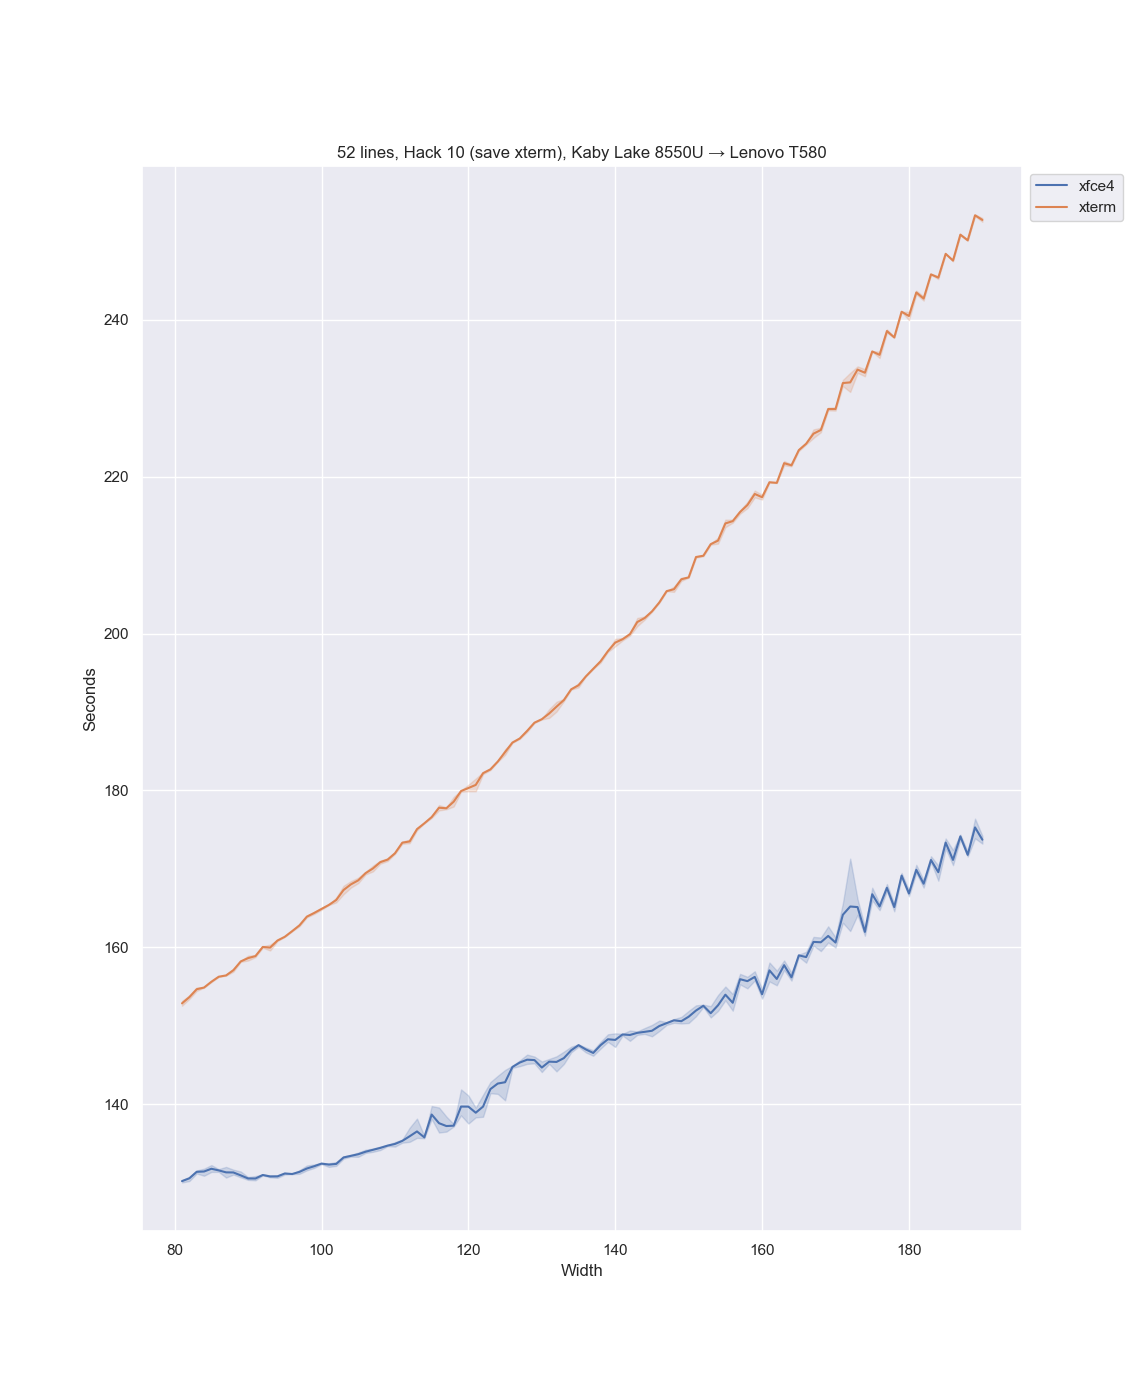
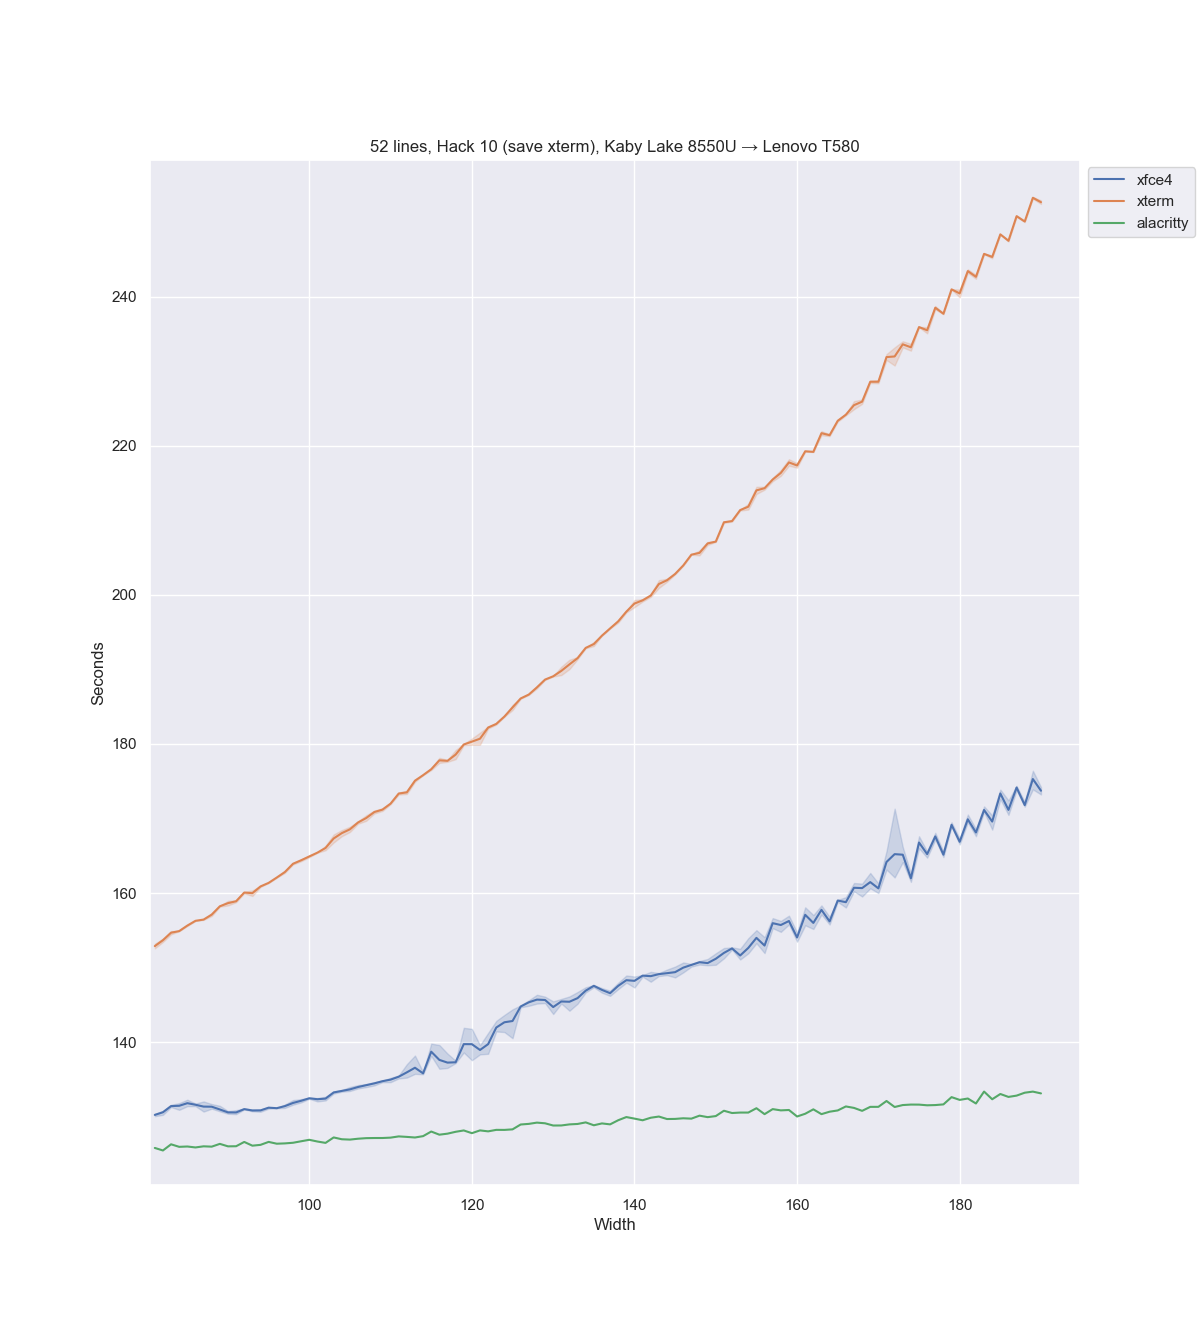
prior art

diff --git a/004-notcurses/plotrun.py b/004-notcurses/plotrun.py
@@ -16,12 +16,13 @@ plt.figure(figsize=(20,8))
 suffixes = ['ns']#, 'bytes']
 for suf in suffixes:
     ttl = pd.DataFrame()
-    bases = ['xfce4-vte-52-', 'xfce4-vte2-52-', 'xfce4-vte3-52-', 'xterm-bitmap-52-', 'xterm-bitmap2-52-']
+    bases = ['xfce4-vte-52-', 'xfce4-vte2-52-', 'xfce4-vte3-52-', 'xterm-bitmap-52-', 'xterm-bitmap2-52-', 'alacritty-52-', 'alacritty-2-52-',
+             'alacritty-3-52-']
     widths = [] # widths
     times = [] # nanosecond counts
     terms = [] # terminals
     for b in bases:
-        for i in range(81,191):
+        for i in range(81,156):
             print('data/' + b + str(i) + '.json')
             xterm=pd.read_json('data/' + b + str(i) + '.json')
             #print(xterm)

diff --git a/004-notcurses/plotdemosns.py b/004-notcurses/plotdemosns.py
@@ -49,7 +49,7 @@ fig, lax = plt.subplots()
 lax.set(yscale="log", ylim=[8000000, 400000000000])
 title='382x74, Hack 10, Broadwell-E 6950X+NVIDIA GTX 1080 → Dell U3417W'
 #title='80x52, Hack 10, Kaby Lake 8550U → Lenovo T580'
-ax = sns.swarmplot(x="Demo", y='value', data=mtot,  hue="Term", orient='v', dodge=True, ax=lax, hue_order=order).set_title(title)
+ax = sns.stripplot(x="Demo", y='value', data=mtot,  hue="Term", orient='v', dodge=True, ax=lax, hue_order=order).set_title(title)
 fig.set_size_inches(18, 8)
 plt.legend(bbox_to_anchor=(1, 1), loc=2)
 plt.xlabel('Demo')

diff --git a/004-notcurses/output.tex b/004-notcurses/output.tex
@@ -331,7 +331,7 @@ are set in the channels (see below). Changing a channel to indicate default colo
 will \textit{not} reset the palette byte, but \textit{will} supercede
 it\footnote{Applications are strongly encouraged not to treat these two bytes as free-use scratchpad, in
 case these semantics change in the future. With that said, sometimes you've gotta
-take sixteen bits wherever you can find them, especially when they represent 12.5%%
+take sixteen bits wherever you can find them, especially when they represent 12.5\%
 of your framebuffer.}.
 
 \begin{table}[!htb]

diff --git a/004-notcurses/benchmarks.tex b/004-notcurses/benchmarks.tex
@@ -74,6 +74,10 @@ across runs is average time per render and maximum time to render.
 \label{table:benchmarks}
 \end{table}
 
+Prior work benchmarking terminal emulators largely focused on ``scroll speed'',
+a fairly useless and easily misleading statistic\cite{lookatterms}, and input
+latency\cite{typingpleasure}.
+
 All of the following graphs have a logarithmic y-axis. At an 80x52 geometry,
 the number of bytes output by different demos spans three orders of magnitude,
 and the time (when all artificial delays are removed) by four orders of
